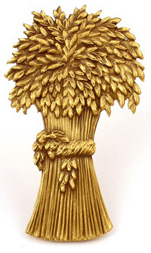
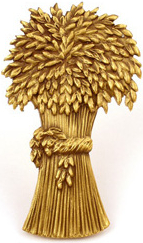
typo

diff --git a/slides-leipzig2018.tex b/slides-leipzig2018.tex
@@ -314,7 +314,7 @@
       \hil{categories of sheaves}
       \medskip
 
-      \includegraphics[height=0.32\textwidth]{sheaf}
+      \includegraphics[height=0.304\textwidth]{sheaf}
 
       \footnotesize
       A topos is a finitely complete cartesian closed category with a
@@ -328,6 +328,7 @@
 
       \includegraphics[height=0.32\textwidth]{olivia-lattices}
 
+      \footnotesize
       ``Let~$G$ be a group.''
     \end{column}
   \end{columns}
